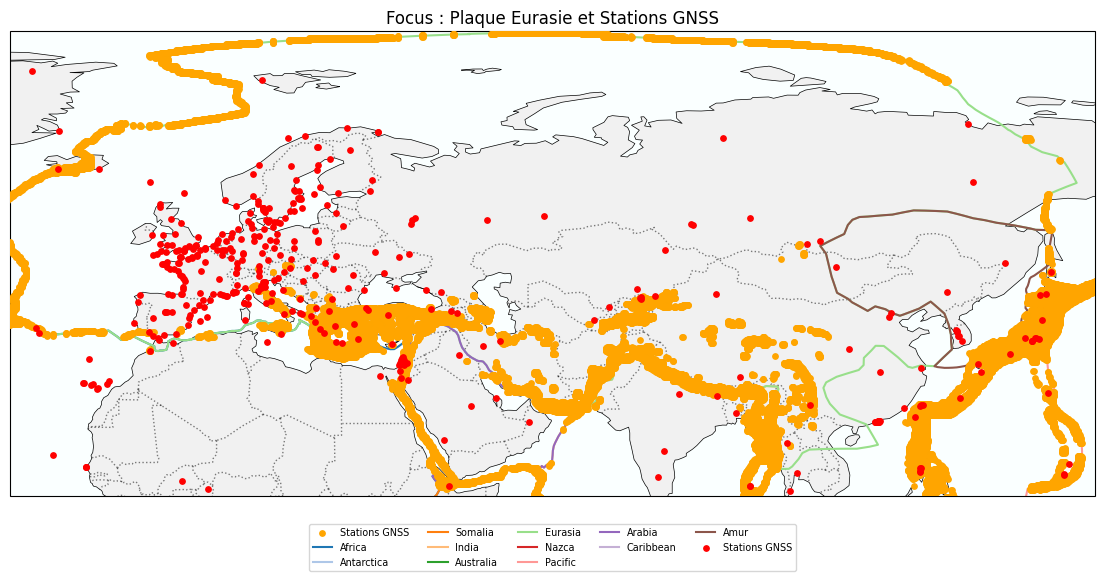
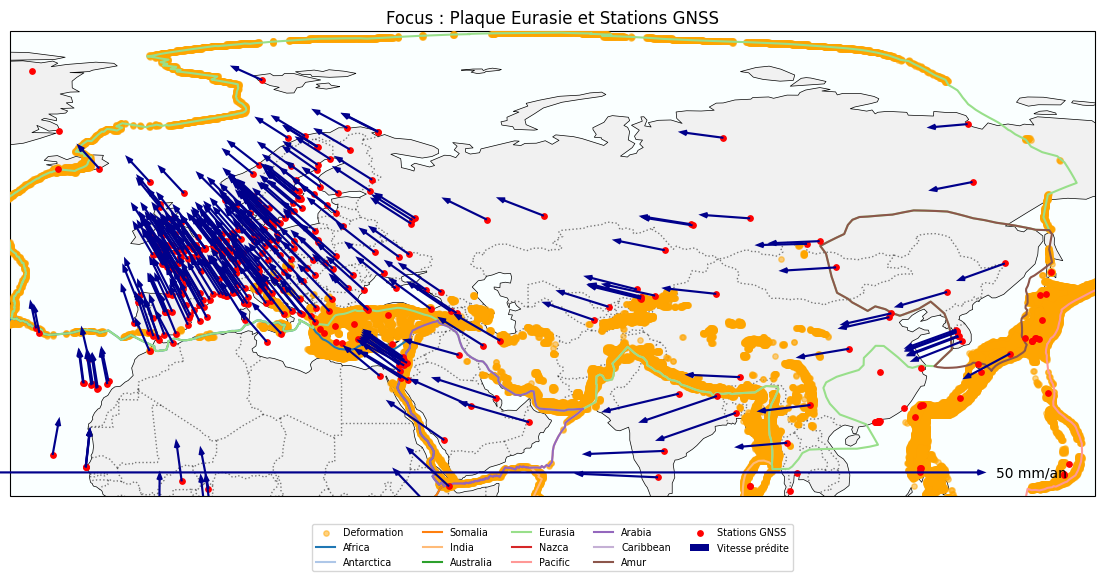
ajout des vecteurs

diff --git a/part5.py b/part5.py
@@ -1,6 +1,7 @@
 import matplotlib.pyplot as plt
 import cartopy.crs as ccrs
 import cartopy.feature as cfeature
+import numpy as np
 
 
 def carte_monde_statique(dico_plaques, df_stations, df_GSRM):
@@ -22,7 +23,8 @@ def carte_monde_statique(dico_plaques, df_stations, df_GSRM):
                           s=15,  # Points légèrement plus gros pour la vue zoomée
                           marker='o',
                           label='Deformation',
-                          zorder=5) 
+                          zorder=3,
+                          alpha=0.5) 
 
     scatter = ax.scatter(df_stations['lon(degres)'], df_stations['lat(degres)'],
                          transform=ccrs.PlateCarree(),
@@ -30,7 +32,7 @@ def carte_monde_statique(dico_plaques, df_stations, df_GSRM):
                          s=10, 
                          marker='o',
                          label='Stations GNSS',
-                         zorder=5) 
+                         zorder=10) 
     
     for i, (nom_plaque, df_plaque) in enumerate(dico_plaques.items()):
         color = colors[i % len(colors)]
@@ -38,7 +40,8 @@ def carte_monde_statique(dico_plaques, df_stations, df_GSRM):
                 transform=ccrs.PlateCarree(), 
                 label=nom_plaque, 
                 color=color, 
-                linewidth=1.5)
+                linewidth=1.5,
+                zorder=5)
 
     ax.set_title("Plaques Tectoniques et Stations GNSS")
 
@@ -74,7 +77,8 @@ def carte_eurasie_statique(dico_plaques, df_stations, df_GSRM):
                             s=15,  # Points légèrement plus gros pour la vue zoomée
                             marker='o',
                             label='Deformation',
-                            zorder=5) 
+                            zorder=3,
+                            alpha=0.5) 
 
     for i, (nom_plaque, df_plaque) in enumerate(dico_plaques.items()):
         color = colors[i % len(colors)]
@@ -88,7 +92,8 @@ def carte_eurasie_statique(dico_plaques, df_stations, df_GSRM):
                 label=nom_plaque, 
                 color=color, 
                 alpha=alpha,
-                linewidth=linewidth)
+                linewidth=linewidth,
+                zorder=5)
 
     scatter = ax.scatter(df_stations['lon(degres)'], df_stations['lat(degres)'],
                           transform=ccrs.PlateCarree(),
@@ -96,8 +101,28 @@ def carte_eurasie_statique(dico_plaques, df_stations, df_GSRM):
                           s=15,  # Points légèrement plus gros pour la vue zoomée
                           marker='o',
                           label='Stations GNSS',
-                          zorder=5) 
+                          zorder=10) 
+    SCALE_FACTOR = 0.05
     
+    q = ax.quiver(df_stations['lon(degres)'].values, df_stations['lat(degres)'].values,
+                  df_stations['Vx_pred'].values, df_stations['Vy_pred'].values,
+                  transform=ccrs.PlateCarree(),
+                  color='darkblue',        # Couleur des flèches
+                  width=0.002,             # Épaisseur du corps de la flèche
+                  headwidth=3,             # Largeur de la tête
+                  headlength=4,            # Longueur de la tête
+                  scale=SCALE_FACTOR,      # L'échelle (le plus important !)
+                  scale_units='inches',    # Unité de l'échelle pour rester cohérent au zoom
+                  zorder=15,               # Tout en haut
+                  label='Vitesse prédite')
+    REF_VELOCITY = 50 # La valeur de la flèche de référence (ex: 50 mm/an)
+    
+    ax.quiverkey(q, 
+                 X=0.9, Y=0.05,            # Position de la légende (en bas à droite)
+                 U=REF_VELOCITY,           # Longueur de la flèche de référence
+                 label=f'{REF_VELOCITY} mm/an', # Texte de la légende
+                 labelpos='E',             # Texte à l'Est de la flèche
+                 coordinates='axes', fontproperties={'size': 10})
     
 
     ax.set_title("Focus : Plaque Eurasie et Stations GNSS")

diff --git a/main.py b/main.py
@@ -20,17 +20,19 @@ d1 = time.time()
 
 print("--- Démarrage du chargement des données ---")
 with tqdm(total=3, desc="Chargement fichiers") as pbar:
+    
+    colspecs_ITRF = [(0, 9),(10, 25), (26,30),(32, 36),(37, 50),(51, 64),(65, 79),(80, 85),(86, 92),(93, 99),(100, 102),(103, 115),(116, 128)]
+    ITRF_2020 = pd.read_fwf("data/ITRF2020_GNSS.SSC.txt", skiprows=8,colspecs=colspecs_ITRF, names=["DOMES NB", "SITE NAME", "TECH","ID", "X/Vx","Y/Vy","Z/Vz","Sigma_x","Sigma_y","Sigma_z","SOLN","DATA_START","DATA_END"] )
+    pmm_itrf = pd.read_csv("data/pmm_itrf.txt",sep='\s+',skiprows=4,names=["Plate", "Name", "NS","Omega_x", "Omega_y","Omega_z","Omega","WRMS","Sigma_y","s_Omega_x","s_Omega_y","s_Omega_z","s_Omega"])
+    pbar.update(1)
+    
     with open("data/Tectonic_Plates.geojson") as f:
         Plaques_Techtoniques = json.load(f)
     pbar.update(1)
     
-    colspecs_ITRF = [(0, 9),(10, 25), (26,30),(32, 36),(37, 50),(51, 64),(65, 79),(80, 85),(86, 92),(93, 99),(100, 102),(103, 115),(116, 128)]
     GSRM = pd.read_fwf("data/GSRM_strain.txt", skiprows=25, names=["lat","long", "exx","eyy","exy","vorticity","RL-NLC","LL-NLC","e1","e2","azi_e1"] )
     pbar.update(1)
     
-    ITRF_2020 = pd.read_fwf("data/ITRF2020_GNSS.SSC.txt", skiprows=8,colspecs=colspecs_ITRF, names=["DOMES NB", "SITE NAME", "TECH","ID", "X/Vx","Y/Vy","Z/Vz","Sigma_x","Sigma_y","Sigma_z","SOLN","DATA_START","DATA_END"] )
-    pmm_itrf = pd.read_csv("data/pmm_itrf.txt",sep='\s+',skiprows=4,names=["Plate", "Name", "NS","Omega_x", "Omega_y","Omega_z","Omega","WRMS","Sigma_y","s_Omega_x","s_Omega_y","s_Omega_z","s_Omega"])
-    pbar.update(1)
 
 d2 = time.time()
 tqdm.write(f'Ouverture fichiers terminée en {d2-d1:.2f}s')
@@ -127,12 +129,12 @@ print(f'Temps calcul déformation : {d1-d:.2f}s')
 
 
 #4
-print(part4.v_pred(pmm_itrf,last_version_position2))
+last_version_position2 = part4.v_pred(pmm_itrf,last_version_position2)
 
 #5
 print("\nGénération des cartes...")
 
-part5.carte_monde_statique(dico_plaques_pmm_noms, last_version_position2, GSRM)
+#part5.carte_monde_statique(dico_plaques_pmm_noms, last_version_position2, GSRM)
 part5.carte_eurasie_statique(dico_plaques_pmm_noms, last_version_position2, GSRM)
 
 print("\n--- Terminée ---")
